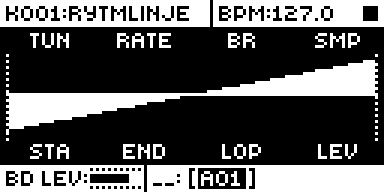
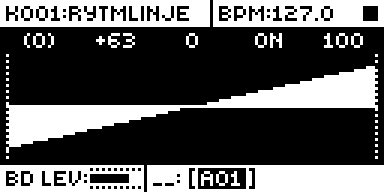
Improved SMPL 0.5.0: one row of values over a taller waveform
SMPL WAVEFORM now shows the values that matter instead of the eight knob
names: TUN, RATE, BR, LOP (OFF/ON/PIPO) and LEV in one row, over a
waveform 37 pixels tall instead of 32. STA and END show as their lines,
D opens stock's sample list, and the header names a knob while it turns.

One site in the SAMPLE view's knob loop (0x400d20ee) calls stock's own
knob-text routine with the row's place and the value shown; the taller
waveform is the widget's y and height in the view's RAM, set once.

diff --git a/sdk/analog-rytm-mkii/modules/sample-rate/src/rate.c b/sdk/analog-rytm-mkii/modules/sample-rate/src/rate.c
@@ -225,12 +225,9 @@ static char *sample_view(void)          // the SAMPLE view in the view stack, or
     return 0;
 }
 
-static void waveform_page(void)
+static void waveform_page(char *view)
 {
-    char *view = sample_view();
     int *pages;
-    if (!view)
-        return;
     pages = *(int **)(view + VIEW_PAGES);
     if (*(int **)(view + VIEW_PAGES + 4) != pages + 2 || pages[0] != PAGE_KNOBS || pages[1] != PAGE_WAVE)
         return;
@@ -239,9 +236,72 @@ static void waveform_page(void)
     VIEW_INVALIDATE(view);
 }
 
+// SMPL WAVEFORM's layout: one row of values over a taller waveform. Stock draws
+// the eight knobs' names in two rows, above and below a 32-pixel waveform, and
+// a knob's value in place of its name while it turns. Here the row holds TUN,
+// RATE, BR, LOP and LEV, always as values (LOP's text is OFF, ON, or PIPO with
+// Ping Pong Loop), with stock's own routine, so the font, centring, a held
+// trig's lock box and every module's value text stay stock's. STA and END show
+// as their lines, SMP as its list on a turn of D: no text. The header names a
+// knob while it turns, as stock.
+//
+// The waveform widget (view + 400) keeps its area as x0 +28, y0 +32, width +36
+// and height +40, read at every draw (y from the bottom of the screen); stock
+// sets 2, 16, 123, 32. Rows 10..46 from the bottom, under the row and above
+// the status bar, give it 37.
+#define VIEW_WAVE 400
+#define WAVE_Y0 32
+#define WAVE_H 40
+#define STOCK_Y0 16
+#define STOCK_H 32
+#define TALL_Y0 10
+#define TALL_H 37
+#define ROW_Y 61            // stock's top row: the text's bottom 13 below
+#define KNOB_X0 16          // stock's knob centres: 16 + 32 a column, rows 61 and 24
+#define KNOB_DX 32
+#define LOWER_Y 40          // below this, the lower row
+
+typedef void (*knob_text_t)(char *view, void *bmp, int x, int y, int id, int value,
+                            void *entry, int lock, int turning, int bare);
+
+// Knob A..H to its place in the row, or -1 for none (SMP, STA, END)
+static const signed char row_slot[8] = {0, 1, 2, -1, -1, -1, 3, 4};
+// The row's centres, 25.25 apart: a lock box (27 wide) at either end stays on
+// the screen, as stock's do
+static const unsigned char row_x[5] = {13, 38, 64, 89, 114};
+
+// From the gate in audio.s, once a knob a draw: stock's routine (draw) and its
+// arguments. turning set shows the value; with a trig held stock sets lock.
+void sample_rate_label(knob_text_t draw, char *view, void *bmp, int x, int y, int id, int value,
+                       void *entry, int lock, int turning, int bare)
+{
+    int col = (x - KNOB_X0) / KNOB_DX, slot;
+    if (x < KNOB_X0 || col > 3 || x != KNOB_X0 + col * KNOB_DX) {
+        draw(view, bmp, x, y, id, value, entry, lock, turning, bare);   // not stock's grid: as stock
+        return;
+    }
+    slot = row_slot[col + (y < LOWER_Y ? 4 : 0)];
+    if (slot < 0)
+        return;
+    draw(view, bmp, row_x[slot], ROW_Y, id, value, entry, lock, 1, bare);
+}
+
+// The taller waveform, once: only from stock's own area, so a module that moves
+// it keeps its own
+static void tall_waveform(char *view)
+{
+    int *y0 = (int *)(view + VIEW_WAVE + WAVE_Y0), *h = (int *)(view + VIEW_WAVE + WAVE_H);
+    if (*y0 != STOCK_Y0 || *h != STOCK_H)
+        return;
+    *y0 = TALL_Y0;
+    *h = TALL_H;
+    VIEW_INVALIDATE(view);
+}
+
 void sample_rate_tick(void *ctrl)
 {
     volatile uint32_t *rec = (volatile uint32_t *)(REC_TUN + REC_STEP);
+    char *view;
     (void)ctrl;
     fine_turn = 0;
     // A plain step is 1 unit (a cent, at the add), a pressed one a whole semitone.
@@ -250,5 +310,9 @@ void sample_rate_tick(void *ctrl)
     rec[1] = 1;
     rec[2] = 0;
     rec[3] = (uint32_t)&fine_profile;
-    waveform_page();
+    view = sample_view();
+    if (view) {
+        waveform_page(view);
+        tall_waveform(view);
+    }
 }

diff --git a/sdk/analog-rytm-mkii/modules/sample-rate/README.md b/sdk/analog-rytm-mkii/modules/sample-rate/README.md
@@ -1,10 +1,10 @@
 # Improved SMPL
 
-An Analog Rytm MKII mod by Nathaniel Pavel (@npp1993). Version 0.4.0-experimental, OS 1.74 with core-ar2 0.7. Called Sample Playback Rate before 0.2.0 and Fine Tune + Sample Rate in 0.2.0 and 0.3.0; its id stays `sample-rate`.
+An Analog Rytm MKII mod by Nathaniel Pavel (@npp1993). Version 0.5.0-experimental, OS 1.74 with core-ar2 0.7. Called Sample Playback Rate before 0.2.0 and Fine Tune + Sample Rate in 0.2.0 and 0.3.0; its id stays `sample-rate`.
 
 ## Overview
 
-Improved SMPL improves the Rytm's SAMPLE page: fine tuning on TUN, RATE on FIN's knob, and the SMPL key always shows the waveform.
+Improved SMPL improves the Rytm's SAMPLE page: fine tuning on TUN, RATE on FIN's knob, and the SMPL key always shows the waveform, with the values that matter in one row.
 
 TUN on the SAMPLE page turns in cents: a plain turn moves 1 cent a step, faster as you spin it, and a press and turn moves whole semitones and keeps the cents. The value reads with two places, as LFO depth does: +3.07, +3.00, and (0) at zero. The cents are kept in TUN's own value, which stock's engine already plays and stock's sound, kit and SysEx already save, so a saved sound plays the same pitch on stock OS, which shows only the whole number.
 
@@ -12,7 +12,7 @@ TUN on the SAMPLE page turns in cents: a plain turn moves 1 cent a step, faster 
 
 FIN's knob is RATE on every sound: a pure speed control, the Octatrack's RATE with its setting on PTCH. No time stretch, just the sample played faster or slower, down to a stop and on into reverse. Stock's pitch stops at a quarter of the speed. RATE carries on to zero. +63 plays at normal speed, 0 stops the sample, -64 plays it backward at normal speed, and the speed scales in a straight line between them. TUN stays as it is and multiplies RATE, up to stock's 4x. The knob, the header and the LFO destinations all call it RATE.
 
-The SMPL key always opens the waveform view (SMPL WAVEFORM), and a second press stays there: the knob-only view is gone. All eight knob names sit above and below the waveform, and each knob's value shows while it turns.
+The SMPL key always opens the waveform view (SMPL WAVEFORM), and a second press stays there: the knob-only view is gone. The view shows values, not names: one row holds TUN, RATE, BR, LOOP (OFF, ON, or PIPO with Ping Pong Loop) and LEV, over a waveform 37 pixels tall instead of 32. STA and END need no number: their lines on the waveform show where they are. Turning D opens stock's sample list. While any knob turns, the header names it, as stock's does.
 
 RATE starts at +63 on a new or cleared sound. A sound saved with FIN at +0, stock's default and every sound saved before 0.3.0 without SMP RATE, loads with RATE 0 and does not play until RATE is turned up.
 
@@ -23,7 +23,7 @@ RATE starts at +63 on a new or cleared sound. A sound saved with FIN at +0, stoc
 | Control | Where | Values |
 | --- | --- | --- |
 | TUN | SAMPLE page, encoder A | -24.00 to +24.00 semitones, shown with two places. Turn: 1 cent a step, with acceleration. Press and turn: whole semitones, cents kept. FUNC + turn: stock's jump to -24, 0 or +24. |
-| SMPL key | Page keys | Opens the SAMPLE page in its waveform view, every time. |
+| SMPL key | Page keys | Opens the SAMPLE page in its waveform view, every time: one row of values (TUN, RATE, BR, LOOP, LEV) over a taller waveform. |
 | RATE | SAMPLE page, encoder B (FIN's knob) | +63 to -64. +63 is 1x, +32 is 0.5x, 0 stops, -32 is -0.5x, -64 is -1x. +63 on a new or cleared sound. |
 
 ## Usage
@@ -52,6 +52,7 @@ RATE replaces FIN in the sample's pitch. TUN, the trig's note on a chromatic tra
 ### Changes to stock flows
 
 - **The SMPL key shows the waveform view only.** What changes: stock's SMPL key opens the SAMPLE page on its knob view or its waveform view and toggles between them; with this mod it always opens SMPL WAVEFORM and a second press stays there. Why: the author wants the sample in view while editing it; the waveform view already carries all eight knob names, and each value shows while its knob turns, so only the dials go. What you see: the waveform every time. It applies only in a build with this mod; with another module that adds a page behind the SMPL key, the knob view stays in the cycle. Checked beside it: SMPL held + PLAY still clears the page (CLEAR PAGE SMPL WAVEFORM), and knob turns, locks and the header work as on stock's waveform view. A stock page that behaves differently by default needs the owner's agreement: asked in the pull request.
+- **SMPL WAVEFORM shows values in one row.** What changes: stock's waveform view names the eight knobs in two rows, above and below a 32-pixel waveform, and shows a knob's value only while it turns; with this mod one row shows the values of TUN, RATE, BR, LOP and LEV all the time, the waveform is 37 pixels tall, and STA, END and SMP have no text. Why: the author knows where each knob sits and wants the numbers: TUN in cents and RATE matter most, LOP's word (OFF, ON, PIPO) says how the sample plays, and STA and END are already drawn as lines on the waveform, so their numbers and the SMP label were clutter. What was considered: values in place of the eight names (stock's own view while SMPL is held), and keeping the names. What you see: the row of values; while a knob turns, the header names it, as stock; D still opens stock's sample list. With a trig held, the row's locks are boxed as stock boxes them; a lock on STA, END or SMP shows no box (the line moves). It applies only in a build with this mod. Checked beside it in rytm-emu: every knob's turn, the sample list, a held trig's locks, no sample, BD's playhead, Ping Pong Loop's PIPO word and S and E marks. The owner reviews this change.
 - **TUN's turn.** What changes: a plain turn of TUN moves 1 cent a step instead of a semitone, and a press and turn moves one semitone a step instead of stock's fast turn. Why: a sample needs tuning between semitones, and FIN no longer detunes. The knob turns as stock's STA and END do, fine plain and coarse pressed. What you see: the value with two places, as stock's LFO depth shows it (+3.00, (0) at zero), instead of whole semitones. FUNC + turn, CC 24 and every other way to set TUN are stock's. It applies only in a build with this mod. Loop Sync takes FUNC + TUN's counts in `ev_enc`, before stock turns them (read in its code, not run beside it).
 - **FIN is RATE on every sound.** What changes: FIN no longer detunes; it sets the sample's speed, its default is +63 instead of +0, and its name is RATE (short) and Rate (long) on every screen. Why: fine tuning moved to TUN, so FIN's knob is free for RATE, and a per-sound switch (0.1.x and 0.2.0: a SOUND SETTINGS row and a tap of the knob) is no longer needed, which gives the knob's press back to stock. What you see: RATE on the SAMPLE page, in the header and in the LFO destination list (SAMP:Rate). It changes how saved sounds play: one saved with FIN at +0 loads stopped, and one saved with a FIN detune plays at that speed. It applies only in a build with this mod: on stock OS FIN is FIN again, so a RATE of +63 plays about a semitone sharp. The owner reviews this change.
 
@@ -60,6 +61,7 @@ RATE replaces FIN in the sample's pitch. TUN, the trig's note on a chromatic tra
 - OS 1.74 only, with core-ar2 0.7. No other module is needed. It links beside Pipo Loop, Silent Pad+Trig, Loop Sync and Filter Hz, with no shared sites.
 - With LOP PIPO, Pipo Loop's turns stayed exact in rytm-emu at every RATE tried, forward, backward and below one frame a block; a unit has to confirm it.
 - Sites, fine TUNE: stock's add of a turn to a value (0x400a88ea), where a plain turn of TUN becomes cents; one data word, TUN's fine-lock flag in its parameter row (0x401c03c8); TUN's turn profile in its RAM record (written each UI tick); the value text through core-ar2's `core_params`.
+- The waveform view's layout: one site in the SAMPLE view's own knob loop (0x400d20ee), where stock calls a knob's text routine; the module calls the same routine with the row's place and the value shown. The taller waveform is no site: the widget's y and height in the view's RAM (view + 400, +32 and +40) move from stock's 16 and 32 to 10 and 37, once, while they are still stock's.
 - The SMPL key: no site; each UI tick the module finds the SAMPLE view (vtable 0x401e3420) in the view manager's stack and, where its own page list is exactly the knob page then the waveform, counts it as one page with the waveform selected.
 - Sites, RATE: the audio interrupt just before the sample prefetch (0x4012112c), TUN and FIN's read and the step's write in the prefetch's rate loop (0x4011c644, 0x4011c686), and three words of FIN's parameter row: its default (0x401c03f8) and its long and short name pointers (0x401c0410, 0x401c0418). It subscribes to `ev_tick` and `ev_enc` for TUN's turn. No storage.
 - RATE never goes above 1x by itself, as on the Octatrack. TUN does: stock's ceiling of about 4x either way stands, set by its 140-frame read window.

diff --git a/sdk/analog-rytm-mkii/modules/sample-rate/TESTING.md b/sdk/analog-rytm-mkii/modules/sample-rate/TESTING.md
@@ -29,6 +29,19 @@ Everything below was observed in rytm-emu on the named build. Nothing has run on
 - A core-only image, same stock and core, for comparison.
 - Emulator: rytm-emu `c5732f0`, headless `dtboot`, JIT on. One generated sample, RAMP, 23,777 frames (odd, so STA and END fall on no round multiple), on BD with LOP ON. Audio is dtboot's `--wav`. Voice words are read with `DTBOOT_PEEK`: step at rec + 12, position at rec + 4, effective FIN at 0x8000f7cc. A click means a sample-to-sample step over 40, or six times the median, on a ramp whose normal step is below 2; each run also flags the trig's own attack, which is not counted.
 
+## 0.5.0: one row of values over a taller waveform (2026-11-12)
+
+rytm-emu (`c5732f0`, RAMP on BD, LOP ON, RATE +63 by CC 25); emulator results are not hardware evidence. Nothing of 0.5.0 has run on a unit yet.
+
[1 lines of base64/hex data omitted]
+- Idle: one row reads (0), +63, 0, ON, 100 (TUN, RATE, BR, LOP, LEV) above a waveform 37 pixels tall (rows 10..46 from the bottom; stock 16..47); no STA, END or SMP text.
+- Turning each knob: the header names it (TUNE, RATE, START, LOOP) and the row shows the new value in its place: TUN +0.01 a cent a step, RATE +45 and +29, LOP ON to OFF. START moved its line. D opened stock's sample list over the right half; OFF + YES gave a flat line under the same row.
+- BD playing with LOP ON, 16 frames 70 M apart: in rows 9..11 from the bottom and above the waveform, the only lit pixel was the playhead's own, at its current column; no trail.
+- Grid record, T1 held: TUN locked to +0.24 and RATE to +61, each boxed in the row with the module's text (the cents show); neighbouring boxes overlap by 2 columns, which XOR to a 2-pixel gap between them. A STA turn with T1 held showed START in the header and no box (no STA place in the row, as designed). 0.4.0 (SR43) compared with the same presses: the same boxes on its eight places.
+- With Ping Pong Loop (SV1P, sample loaded by replaying the setup's presses): LOP turned up reads PIPO in the row; its S and E marks sit at the bottom and top of the taller waveform.
+- Independent code review: stack and argument layout of the gate against stock's knob loop, registers, mapping, clipping (text clamped, the 27-wide lock box inside 0..127 at the row's ends) and the widget's area checked against stock 1.74; nothing serious. Applied: the gate returns with a jmp to 0x400d20f6 instead of a saved return. Noted: two neighbouring lock boxes overlap (above); in stock's bare lock-editor routine a knob's value text is stock's own, not a module's (not seen in the captures above).
+- Not run: a unit, a KIT menu or other full-screen menu over the page, scene and performance modes on the SMPL page, a sound with a module's page added behind SMPL (the layout then still applies to the waveform page).
+
 ## 0.4.0: the SMPL key shows the waveform only (2026-11-11)
 
 rytm-emu (`c5732f0`) unless it says unit; emulator results are not hardware evidence.
